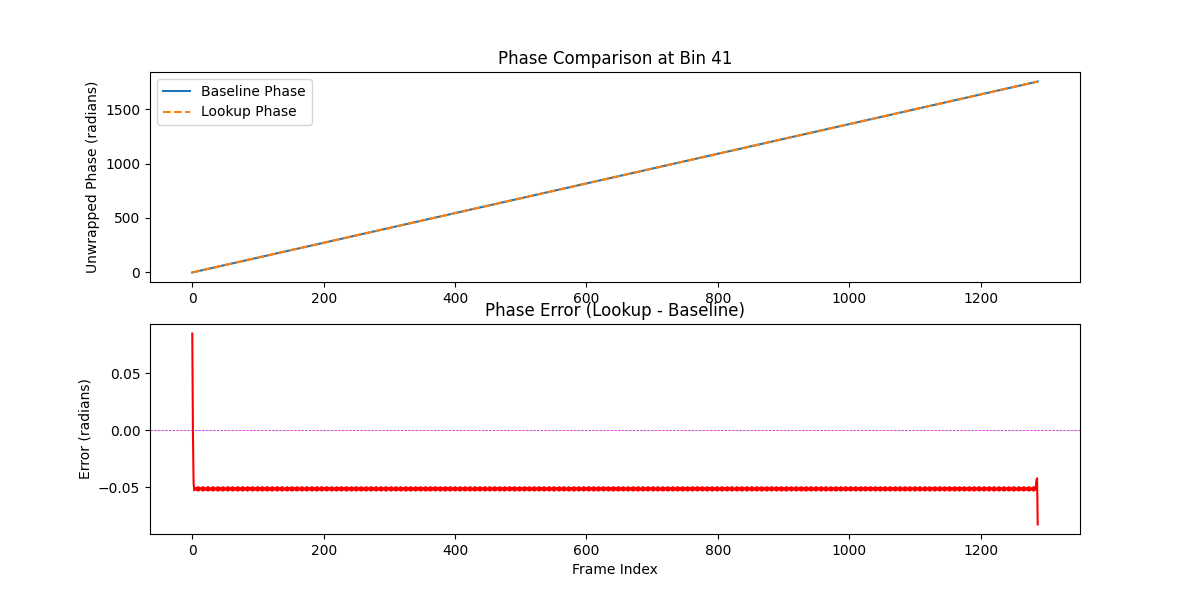
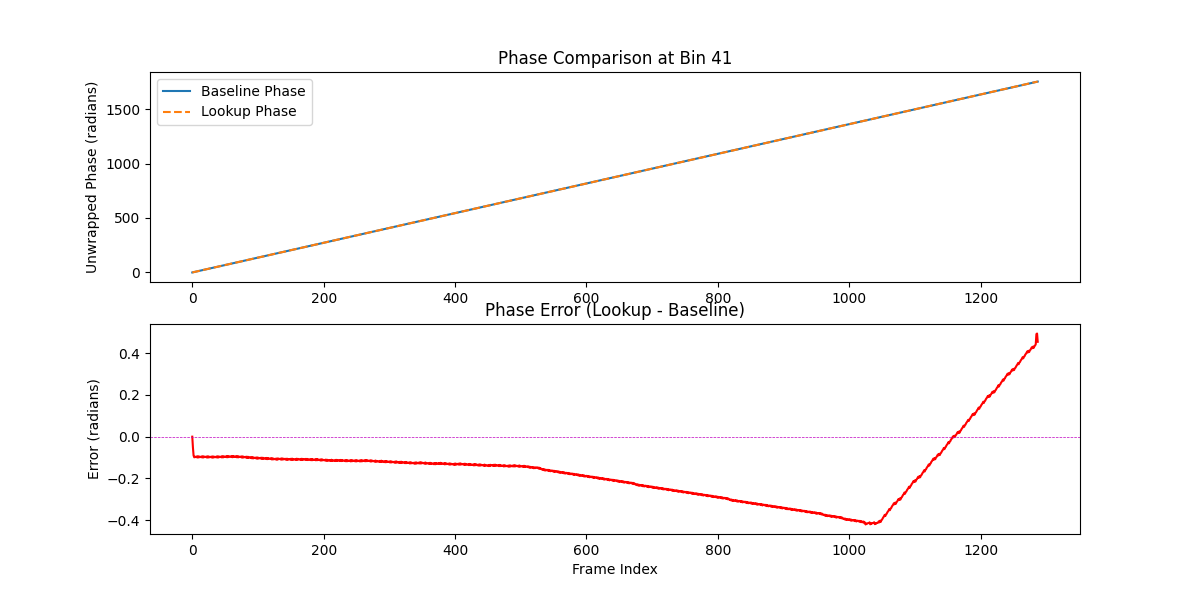
recent version

diff --git a/app/audio.py b/app/audio.py
@@ -395,6 +395,20 @@ class OPTEngine(EngineBase):
         super().reset_state()
         self.prev_phase = None
         self.setup_audio_stream()
+    
+    def manual_stft_numpy(xh, beta, L=2048, sr=22050):
+        Ha_lookup = int(round(beta * L))
+        window = np.hanning(L)
+        n_frames = int(np.round((len(xh) - L) / Ha_lookup))
+        k_bins = 1 + L // 2
+        S_lookup = np.zeros((k_bins, n_frames), dtype=np.complex64)
+        for i in range(n_frames):
+            start = i * Ha_lookup
+            end = start + L
+            if end > len(xh):
+                break
+            S_lookup[:, i] = np.fft.rfft(xh[start:end])
+        return S_lookup
 
     def prepare_hpss(self):
         x, self.audio_sr = lb.load(self.filename, sr=22050)
@@ -408,19 +422,12 @@ class OPTEngine(EngineBase):
         # Precompute STFT, phase and IF lookup for time-varying alpha
         Ha_lookup = int(round(self.beta * self.L))
 
-        self.S_lookup = lb.core.stft(self.xh, n_fft=self.L, hop_length=Ha_lookup, win_length=self.L, center=False, dtype=np.complex64)
+        # self.S_lookup = lb.core.stft(self.xh, n_fft=self.L, hop_length=Ha_lookup, win_length=self.L, center=False, dtype=np.complex64)
         
-        #Normalization
-        S_lookup_temp = lb.core.stft(self.audio_data, n_fft=self.L, hop_length=Ha_lookup, center=False, win_length=self.L) # shape = (1 + n_fft/2, n_frames)
-        S_mag_temp = np.abs(S_lookup_temp)
-
-
+        self.S_lookup = self.manual_stft_numpy(self.xh, self.beta)
         self.S_phase_lookup = np.angle(self.S_lookup)
         self.S_mag_lookup = np.abs(self.S_lookup)
         
-        norm_factor = 1 + (np.max(self.S_mag_lookup)/np.max(S_mag_temp))
-
-        self.S_mag_lookup = self.S_mag_lookup * norm_factor
         self.w_if_lookup = self.estimate_instantaneous_frequency(self.S_lookup, self.audio_sr, Ha_lookup)
 
         self.den = self.calc_sum_squared_window(self.window, self.Hs)

diff --git a/hybrid_opt.py b/hybrid_opt.py
@@ -136,6 +136,20 @@ def on_alpha_change(e):
 
 keyboard.on_press(on_alpha_change)
 
+def manual_stft_numpy(xh, beta, L=2048, sr=22050):
+        Ha_lookup = int(round(beta * L))
+        window = np.hanning(L)
+        n_frames = int(np.round((len(xh) - L) / Ha_lookup))
+        k_bins = 1 + L // 2
+        S_lookup = np.zeros((k_bins, n_frames), dtype=np.complex64)
+        for i in range(n_frames):
+            start = i * Ha_lookup
+            end = start + L
+            if end > len(xh):
+                break
+            S_lookup[:, i] = np.fft.rfft(xh[start:end])
+        return S_lookup
+
 file_name = sys.argv[1]
 audio_data, audio_sr = lb.load(file_name)
 
@@ -156,7 +170,7 @@ runtimes = []
 pos = 0
 pos_ola = 0
 # Determines the phase vocoder look-up analysis hopsize e.g. beta = 0.125 is 12.5% overlap
-beta = 0.05
+beta = 0.24
 gain = 0
 
 xh, xp, _, _ = harmonic_percussive_separation(x=audio_data, sr=audio_sr)
@@ -168,7 +182,8 @@ omega_nom = np.arange(L//2 + 1) * 2 *np.pi * audio_sr / L
 Ha_lookup = int(round((beta)*L))
 den = calc_sum_squared_window(window, Hs)
 
-S_lookup = lb.core.stft(xh, n_fft=L, hop_length=Ha_lookup, center=False, win_length=L) # shape = (1 + n_fft/2, n_frames)
+S_lookup = manual_stft_numpy(xh, beta)
+# S_lookup = lb.core.stft(xh, n_fft=L, hop_length=Ha_lookup, center=False, win_length=L) # shape = (1 + n_fft/2, n_frames)
 S_phase_lookup = np.angle(S_lookup)
 S_mag_lookup = np.abs(S_lookup)
 
